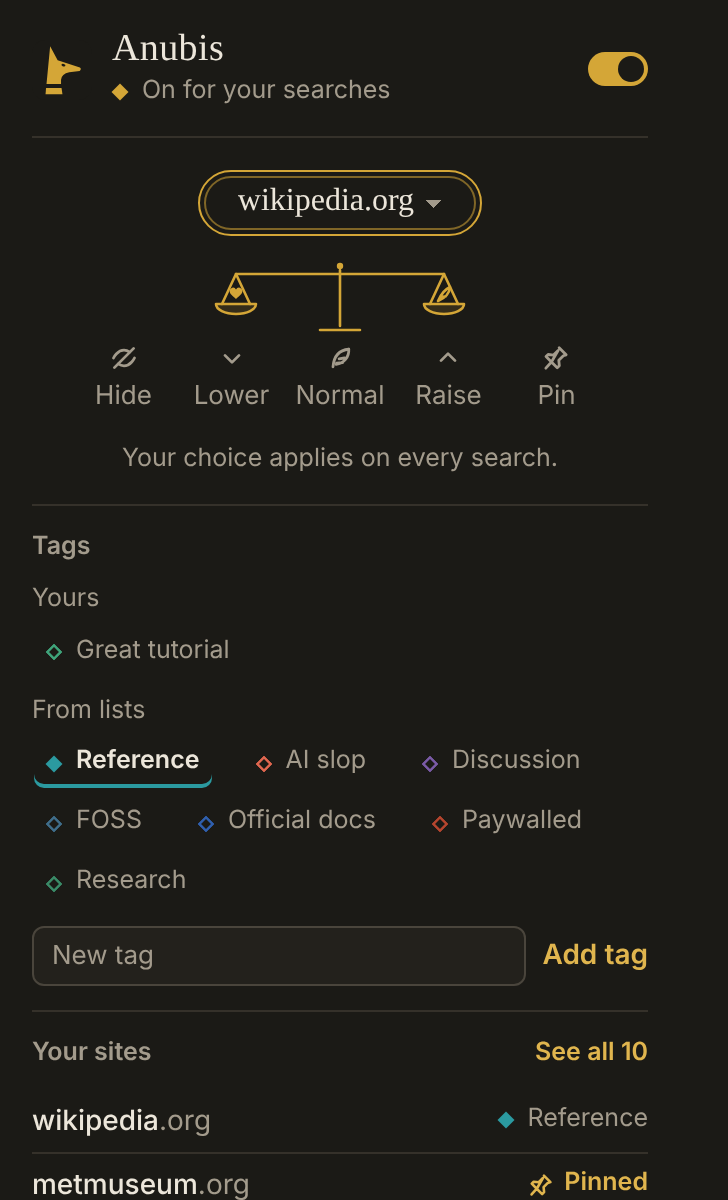
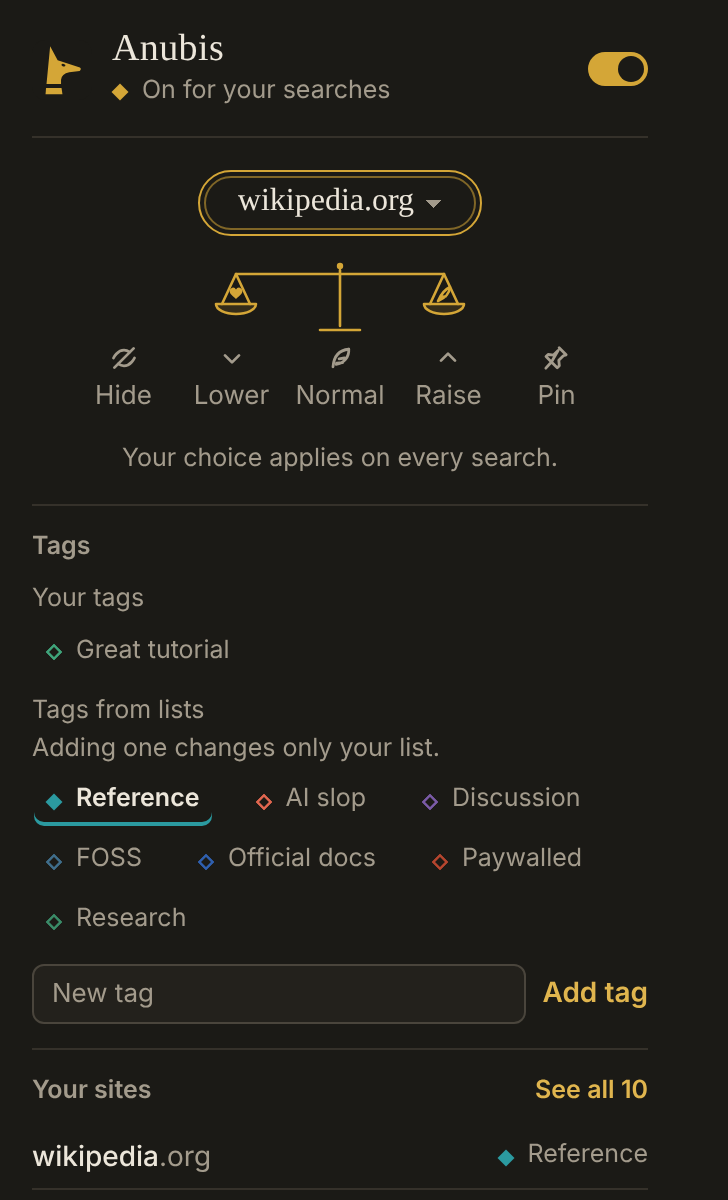
Make the tag picker say who owns each tag

Changed region(s): [[0.0302, 0.5858, 0.9066, 1.0], [0.6346, 0.6167, 0.7857, 0.74], [0.1209, 0.4933, 0.2115, 0.5242]]

diff --git a/utils/siteranking.ts b/utils/siteranking.ts
@@ -79,7 +79,26 @@ export function tagPicker(ids: string[], fromLists: Set<string>, item: (id: stri
   if (!ids.length) return null;
   const yours = ids.filter((id) => !fromLists.has(id));
   const lists = ids.filter((id) => fromLists.has(id));
-  if (!yours.length || !lists.length) return h('div', { class: 'tags' }, ids.map(item));
-  const group = (name: string, group: string[]) => h('div', { class: 'tag-group' }, h('p', { class: 'tag-group-name' }, name), h('div', { class: 'tags' }, group.map(item)));
-  return h('div', { class: 'tag-groups' }, group(t('tagGroupYours'), yours), group(t('tagGroupLists'), lists));
+  if (!lists.length) return h('div', { class: 'tags' }, ids.map(item));
+  const group = (name: string, group: string[], hint?: string) =>
+    h(
+      'div',
+      { class: 'tag-group' },
+      h('p', { class: 'tag-group-name' }, name),
+      // Adding a list's tag to a site never changes the list: said where it's done.
+      hint ? h('p', { class: 'tag-group-hint' }, hint) : null,
+      h('div', { class: 'tags' }, group.map(item)),
+    );
+  return h(
+    'div',
+    { class: 'tag-groups' },
+    yours.length ? group(t('tagYoursHeading'), yours) : null,
+    group(t('tagListsHeading'), lists, t('tagListsPickerHint')),
+  );
+}
+
+/** The lists that gave the site a tag, after its name where it can't be pressed: "from Paywalls". */
+export function tagSource(verdict: Verdict, id: string): HTMLElement | null {
+  const lists = (verdict.tagSources[id] ?? []).filter((name) => name !== PERSONAL_NAME);
+  return lists.length ? h('span', { class: 'tag-source' }, t('tagFromSource', tJoin(lists))) : null;
 }

diff --git a/entrypoints/popup/main.ts b/entrypoints/popup/main.ts
@@ -14,7 +14,7 @@ import { hiddenCount, send, sendToActiveTab, type PageStats } from '@/utils/mess
 import { displayLevel, getSite, listSites, setSiteLevel, tagSite, upsertTagDef, type PersonalLevel } from '@/utils/personal';
 import { loadRuleSet, watchRuleSet, type RuleSet } from '@/utils/ruleset';
 import { editPersonal, updateSettings } from '@/utils/storage';
-import { fromListsClass, nextLevel, rankingHint, rankingOf, siteCartouche, tagOrder, tagPicker } from '@/utils/siteranking';
+import { fromListsClass, nextLevel, rankingHint, rankingOf, siteCartouche, tagOrder, tagPicker, tagSource } from '@/utils/siteranking';
 import { stoppedSentence, summarySentence } from '@/utils/summary';
 import { initTheme } from '@/utils/theme';
 
@@ -166,10 +166,11 @@ function renderHere(rules: RuleSet) {
     if (!on && fromList.has(id)) {
       return h(
         'span',
-        { class: 'tag', style: `--c: ${tag.color}`, title: t('popupTagFrom', tJoin(verdict.tagSources[id] ?? [])) },
+        { class: 'tag fixed', style: `--c: ${tag.color}` },
         tagMark(verdict.tagEffects[id]),
         tag.label,
         tagEffectText(verdict.tagEffects[id]),
+        tagSource(verdict, id),
       );
     }
     return h(

diff --git a/entrypoints/content/ui.ts b/entrypoints/content/ui.ts
@@ -10,7 +10,7 @@ import { hiddenCount, type PageStats } from '@/utils/messages';
 import { getSite, type PersonalLevel } from '@/utils/personal';
 import { ruleParts } from '@/utils/ruletext';
 import type { Palette } from '@/utils/storage';
-import { fromListsClass, nextLevel, rankingHint, rankingOf, siteCartouche, tagOrder, tagPicker } from '@/utils/siteranking';
+import { fromListsClass, nextLevel, rankingHint, rankingOf, siteCartouche, tagOrder, tagPicker, tagSource } from '@/utils/siteranking';
 import { shortSummary, stoppedSentence, summarySentence } from '@/utils/summary';
 import { OWN_TAGS, type FoundResult } from './results';
 import shadowCss from './shadow.css?inline';
@@ -1208,10 +1208,11 @@ function buildPopover(
     if (!on && fromList.has(id)) {
       return h(
         'span',
-        { class: 'fixed', style: `--c: ${tag.color}`, title: t('popupTagFrom', tJoin(data.verdict.tagSources[id] ?? [])) },
+        { class: 'fixed', style: `--c: ${tag.color}` },
         tagMark(data.verdict.tagEffects[id]),
         tag.label,
         tagEffectText(data.verdict.tagEffects[id]),
+        tagSource(data.verdict, id),
       );
     }
     return h(

diff --git a/entrypoints/content/shadow.css b/entrypoints/content/shadow.css
@@ -557,6 +557,18 @@ button {
   font-size: 12.5px;
   color: var(--muted);
 }
+.tag-group-name + .tag-group-hint {
+  margin: -3px 0 3px;
+  font-size: 12.5px;
+  color: var(--muted);
+}
+.tag-source {
+  min-width: 0;
+  font-size: 12.5px;
+  font-weight: 400;
+  color: var(--muted);
+  white-space: normal;
+}
 .tags {
   display: flex;
   flex-wrap: wrap;
@@ -576,12 +588,21 @@ button {
 .tags button:hover {
   color: var(--text);
 }
+/* A tag you gave the site, as in the popup: bold, underlined in its colour. */
 .tags [aria-pressed='true'] {
   color: var(--text);
+  font-weight: 600;
+  box-shadow: inset 0 -2px var(--c);
 }
+:host([data-palette='plain']) .tags [aria-pressed='true'] {
+  box-shadow: inset 0 -2px var(--muted);
+}
+/* A tag a list gave the site: plain, not a button, with the list's name after it. */
 .tags .fixed {
   color: var(--text);
   cursor: default;
+  max-width: 100%;
+  white-space: nowrap;
 }
 .new-tag {
   display: flex;

diff --git a/entrypoints/popup/style.css b/entrypoints/popup/style.css
@@ -193,6 +193,22 @@ h2 .text-btn {
   font-size: 12.5px;
   color: var(--muted);
 }
+.tag-group-name + .tag-group-hint {
+  margin: -3px 0 3px;
+  font-size: 12.5px;
+  color: var(--muted);
+}
+.tag-source {
+  min-width: 0;
+  font-size: 12.5px;
+  font-weight: 400;
+  color: var(--muted);
+  white-space: normal;
+}
+.tags .tag.fixed {
+  max-width: 100%;
+  white-space: nowrap;
+}
 .tags {
   display: flex;
   flex-wrap: wrap;

diff --git a/docs/experiments/storage-and-lists.md b/docs/experiments/storage-and-lists.md
@@ -6,7 +6,8 @@ Where things are stored, sync between browsers, and subscribing to lists. Part o
 
 - **Raised by the owner:** people see list tags beside their own in the tag picker, add them to sites, and expect their additions to be overwritten or go out of date. They never were overwritten: a list's update can't touch the personal list, and renaming a list's tag is saved as a tag choice. But they did go stale: tagging a site with a list's tag stored only the id, so when the list dropped or renamed the tag, or you unsubscribed, your sites kept a bare id with a made-up colour.
 - **Considered and rejected: tag repositories.** Subscribable sets of tag definitions that lists would depend on, so a list reuses a tag you already have rather than duplicating it. Tags are already shared by id, which does that de-duplication, and a list of only `! tag:` lines already works as such a set. Dependencies would add fetch order, versions, a list that breaks when what it depends on goes, and a second thing to trust, and still wouldn't keep your own tagging from going stale.
-- **Shipped:** tagging a site with a list's tag copies the list's `! tag:` line into the personal list (`tagSite`), and untagging the last of your sites takes the copy out again. A subscribed list's definition now wins over the personal list's (`collectTags`); before, the personal list's won. The copy only names the tag once no list defines it. The background script fills in copies for sites tagged before, after an install or update (`copyListTags`). Settings → Tags groups by who defines the tag: Your tags holds tags no list gives sites, and a list's tag you use stays under Tags from lists ("Marks 3 sites of yours and 908 from …"). Before, a tag you'd defined that a list also used sat under Your tags with "Also used by". The popup and the result menu split the picker into Yours and From lists. `list-format.md` asks list authors to keep ids and reuse common ones, and lists the ids Anubis's lists use.
+- **Shipped:** tagging a site with a list's tag copies the list's `! tag:` line into the personal list (`tagSite`), and untagging the last of your sites takes the copy out again. A subscribed list's definition now wins over the personal list's (`collectTags`); before, the personal list's won. The copy only names the tag once no list defines it. The background script fills in copies for sites tagged before, after an install or update (`copyListTags`). Settings → Tags groups by who defines the tag: Your tags holds tags no list gives sites, and a list's tag you use stays under Tags from lists ("Marks 3 sites of yours and 908 from …"). Before, a tag you'd defined that a list also used sat under Your tags with "Also used by". The popup and the result menu split the picker into Your tags and Tags from lists.
+- **Usability check (ux-heuristics):** first pass 6/10. In the result menu a tag a list gave the site looked exactly like one you'd pressed, though only yours responds, and which list gave it was only in a tooltip; "From lists" over buttons you can press suggested editing the list; the picker and Settings used different names. Fixed: the menu marks your tags bold and underlined as the popup does, a list's tag is plain with "from" and the list's name after it, the lists' group says "Adding one changes only your list.", both use Settings' names, and the Settings hint lost a third of its words. `list-format.md` asks list authors to keep ids and reuse common ones, and lists the ids Anubis's lists use.
 - **Changed for some:** a tag you made whose id a list also defines now shows the list's name and colour. Rename it in Settings → Tags to keep yours; that's saved as a tag choice, which wins over both.
 
 ## FOSS from awesome-selfhosted (2026-10-08)

diff --git a/STYLEGUIDE.md b/STYLEGUIDE.md
@@ -123,7 +123,7 @@ All shared controls are in `assets/theme.css`; the search-page versions in `shad
 | Select | `select` | The same box as an input, with the one caret: a small `--muted` chevron drawn in CSS, 10px from the right edge | Never the browser's own arrow |
 | Switch | `.switch` | 30×17px pill, gold when on | Settings that take effect at once; no Save button |
 | Choice row | `.seg`, `.levels` | Plain words in `--muted`; the chosen one `--text`, 600, with a 2px underline in gold (`--muted` for Hide, the tag's colour for a tag filter). The rankings put each one's icon over its word: `--muted` at rest, and once chosen `--gold-ink` for Raise and Pin, `--text` for the rest | Choosing one of a few: the rankings, Appearance's options |
-| Tag | `.tag` + `.gem` | A 6px diamond in the tag's colour, then its name; hollow for a tag you could add. When the tag raises, lowers, or hides the result, `.gem-mark` takes the diamond's place: that ranking's icon, simplified to a 10px sign in the tag's colour (`tagMark` in `utils/icons.ts`), with its meaning for screen readers. In the popup, a selected tag also has bold text and a 2px underline in its colour. Where you pick tags (the popup and the result menu), your tags and those from lists are two groups under 12.5px `--muted` names, Yours first, when there are both (`tagPicker` in `utils/siteranking.ts`). | Tags everywhere. Never pills or chips with fills. |
+| Tag | `.tag` + `.gem` | A 6px diamond in the tag's colour, then its name; hollow for a tag you could add. When the tag raises, lowers, or hides the result, `.gem-mark` takes the diamond's place: that ranking's icon, simplified to a 10px sign in the tag's colour (`tagMark` in `utils/icons.ts`), with its meaning for screen readers. In the popup, a selected tag also has bold text and a 2px underline in its colour. Where you pick tags (the popup and the result menu), your tags and those from lists are two groups under 12.5px `--muted` names, Your tags first; the lists' group says "Adding one changes only your list." (`tagPicker` in `utils/siteranking.ts`). In both, a tag you gave the site is bold and underlined in its colour, and one a list gave it is plain, not a button, followed by "from" and the list's name in 12.5px `--muted` (`tagSource`). | Tags everywhere. Never pills or chips with fills. |
 | Site name | `siteName()` + `.suffix` | The name in the row's colour, the ending it shares with other sites (`.org`, `.co.uk`) in `--muted` at 400 | A site as a row's subject: the popup's and Settings' Your sites |
 | Ranking note | `.level-note` | Pin and Raise in `--gold-ink`, Hide, Lower, and Normal in `--muted`. Results have no ranking label: the button on each result shows the ranking, and tags show what they do | Naming a site's ranking in the popup's list of your sites |
 

diff --git a/docs/guide/tags.md b/docs/guide/tags.md
@@ -10,7 +10,7 @@ Tags are small labels under a result's title: "Official docs", "Discussion", "Pa
 
 On any website, open the Anubis toolbar popup. Under **Tags**, press a tag to add it to the site, or press it again to remove it. To make a new tag for the site, type its name in **New tag** and press **Add tag**. On search pages, the ⚖ menu on each result offers the same controls.
 
-Your own tags are under **Yours**, and the tags your lists use are under **From lists**. You can add a tag from a list to any site, and that goes in your own list, not the list's. A tag a list gave the site shows without a button: only the list can take it off, and **Wrong? Report it** in the ⚖ menu tells its maintainers.
+Your own tags are under **Your tags**, and the tags your lists use are under **Tags from lists**. You can add a tag from a list to any site, and that changes only your own list, not the list's. A tag you gave the site is in bold and underlined in its colour. A tag a list gave the site is plain, with the list's name after it ("from Paywalls"): only the list can take it off, and **Wrong? Report it** in the ⚖ menu tells its maintainers.
 
 ## Whose tag is it
 
